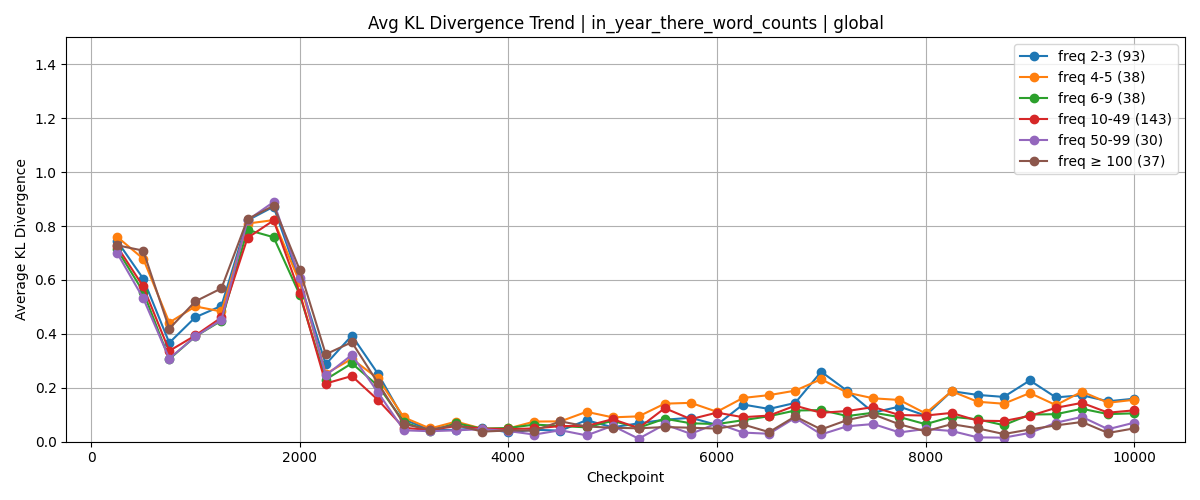
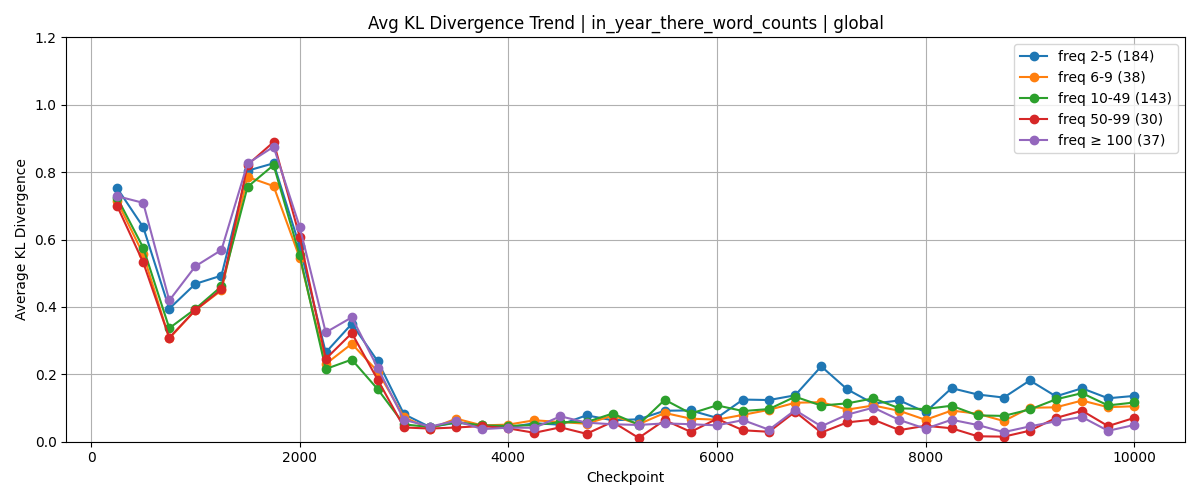
some plots

diff --git a/kl_divergence_checkpoints.py b/kl_divergence_checkpoints.py
@@ -3,6 +3,7 @@ import json
 import numpy as np
 from scipy.stats import entropy
 import matplotlib.pyplot as plt
+import matplotlib.cm as cm
 
 TRAINING_DATA_FILE = "../olmo_training_data/1000-3000__was.were.is.are.will__allenai_OLMo-2-0425-1B/aggregated/steps0-10000/analytics/1000-3000__was.were.is.are.will__aggregated_results_steps0-10000.json" 
 CHECKPOINT_DIR = "../olmo_predictions/output_checkpoints"
@@ -102,7 +103,7 @@ class KLAnalyzer:
         plt.xlabel("Checkpoint")
         plt.ylabel("Average KL Divergence")
         plt.title(f"Avg KL Divergence Trend | {self.data_source} | Count range {count_range}")
-        plt.ylim(0,1.5)
+        plt.ylim(0,1.2)
         plt.grid(True)
         plt.tight_layout()
         os.makedirs("checkpoints", exist_ok=True)
@@ -163,7 +164,7 @@ class KLAnalyzer:
         plt.xlabel("Checkpoint")
         plt.ylabel("Average KL Divergence")
         plt.title(f"Avg KL Divergence Trend | {self.data_source} | {prior_method}")
-        plt.ylim(0, 1.5)
+        plt.ylim(0, 1.2)
         plt.grid(True)
         plt.legend(loc='upper right')
         plt.tight_layout()
@@ -191,7 +192,56 @@ class KLAnalyzer:
             return f"freq ≥ {low}"
         else:
             return f"freq {low}-{high}"
+            
+    def plot_avg_kl_by_bins_two_priors(self, checkpoints, cutoffs=[4,10]):
+        """
+        Plot KL by bins and prior method with lines and scatter points.
+        'per_year' bins in blue shades, 'global' bins in red shades.
+        """
+        import matplotlib.cm as cm
 
+        plt.figure(figsize=(12,5))
+        bin_edges = self._bin_edges(cutoffs)
+        bin_labels = [self._bin_label(low, high, cutoffs) for low, high in bin_edges]
+
+        prior_methods = ["per_year", "global"]
+        colors = {
+            "per_year": cm.Blues_r(np.linspace(0.4, 1, len(bin_labels))),
+            "global": cm.Reds_r(np.linspace(0.4, 1, len(bin_labels)))
+        }
+
+        for prior_method in prior_methods:
+            bin_kl_over_ckpts = {label: [] for label in bin_labels}
+            bin_counts_per_label = {label: 0 for label in bin_labels}
+
+            # compute KL for all bins across checkpoints
+            for ckpt in checkpoints:
+                kl_by_bin = self.compute_avg_kl_by_bins(ckpt, cutoffs=cutoffs, prior_method=prior_method)
+                for label in bin_labels:
+                    kl_val, count = kl_by_bin.get(label, (None, 0))
+                    bin_kl_over_ckpts[label].append(kl_val)
+                    bin_counts_per_label[label] = max(bin_counts_per_label[label], count)
+
+            # plot bins with lines and scatter points
+            for label, color in zip(bin_labels, colors[prior_method]):
+                kl_vals = bin_kl_over_ckpts[label]
+                ckpts_filtered = [c for c, kl in zip(checkpoints, kl_vals) if kl is not None]
+                kl_filtered = [kl for kl in kl_vals if kl is not None]
+                if kl_filtered:
+                    label_with_count = f"{label} ({bin_counts_per_label[label]}) | {prior_method}"
+                    plt.plot(ckpts_filtered, kl_filtered, marker='o', markersize=4, label=label_with_count, color=color)  # lines + small markers
+
+        plt.xlabel("Checkpoint")
+        plt.ylabel("Average KL Divergence")
+        plt.title(f"Avg KL Divergence Over Training Checkpoints | {self.data_source}")
+        plt.ylim(0,1.2)
+        plt.grid(True)
+        plt.legend(loc='upper right', fontsize=8)
+        plt.tight_layout()
+        os.makedirs("checkpoints", exist_ok=True)
+        plt.savefig(f"checkpoints/avg_kl_by_bins_two_priors_lines_{cutoffs[0]}_{cutoffs[-1]}.png")
+        plt.show()
+        plt.close()
 
 if __name__ == "__main__":
     analyzer = KLAnalyzer(TRAINING_DATA_FILE, CHECKPOINT_DIR, "in_year_there_word_counts")
@@ -207,10 +257,13 @@ if __name__ == "__main__":
 
     # Many ranges at once, with cutoffs:
     PRIOR_METHOD =  "global"
-    CUTOFFS = [2, 4, 6, 10, 50, 100] # always pass cutoffs >1
+    CUTOFFS = [2, 6, 10, 50, 100] # always pass cutoffs >1
     analyzer.plot_avg_kl_by_bins(CHECKPOINTS, cutoffs=CUTOFFS, prior_method=PRIOR_METHOD)
    
     PRIOR_METHOD =  "per_year"
-    CUTOFFS = [2, 4, 6, 10, 50, 100] # always pass cutoffs >1
+    CUTOFFS = [2, 6, 10, 50, 100] # always pass cutoffs >1
     analyzer.plot_avg_kl_by_bins(CHECKPOINTS, cutoffs=CUTOFFS, prior_method=PRIOR_METHOD)
    
+
+    CUTOFFS = [2,6,10,50,100]
+    analyzer.plot_avg_kl_by_bins_two_priors(CHECKPOINTS, cutoffs=CUTOFFS)
